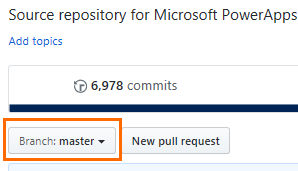
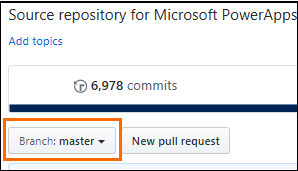
Added borders around images

Changed region(s): [[0.0, 0.0, 1.0, 1.0]]

diff --git a/topics/make-multiple-changes.md b/topics/make-multiple-changes.md
@@ -135,12 +135,12 @@ review link on docs in your email with your recent changes that you can review.
 
 > [!CAUTION]
 > Renaming a file will lead to broken links. Also, if the file is
-aready published live, a redirect must be set to route from the original URL to the new URL. Please work with your CPub contact before renaming a file to understand the implications.
+aready published live, a redirect must be set to route users from the original URL to the new URL. Please work with your CPub contact before renaming a file to understand the implications, and address them.
 
 1.  Browse to one of [our repos](get-started.md#our-repos)
 
 2.  Ensure that your branch is selected in the branch list before working on
-    your changes. If you don’t already have a branch, first [create a branch](#create-a-branch).      
+    your changes. If you don’t already have a branch, first [create a branch](#create-a-branch).
 
     ![](media/upload-images-01.png)
 
@@ -160,7 +160,11 @@ aready published live, a redirect must be set to route from the original URL to 
 6.  When your changes are ready to publish live, create a pull request as described
     later in this topic.
 
-### Delete a file
+## Delete a file
+
+> [!CAUTION]
+> Deleting a file will lead to broken links from other topics or TOC. Also, if the file is
+aready published live, a redirect must be set to route users from the original URL to the new URL. Please work with your CPub contact before deleting a file to understand the implications, and address them.
 
 1.  Browse to one of [our repos](get-started.md#our-repos)
 
@@ -179,7 +183,7 @@ aready published live, a redirect must be set to route from the original URL to 
 5.  When your changes are ready to ship, create a pull request as described
     later in this topic.
 
-### Finally: Create pull request to merge your changes and publish live
+## Finally: Create pull request to merge your changes and publish live
 
 1.  Browse to one of [our repos](get-started.md#our-repos)
 
